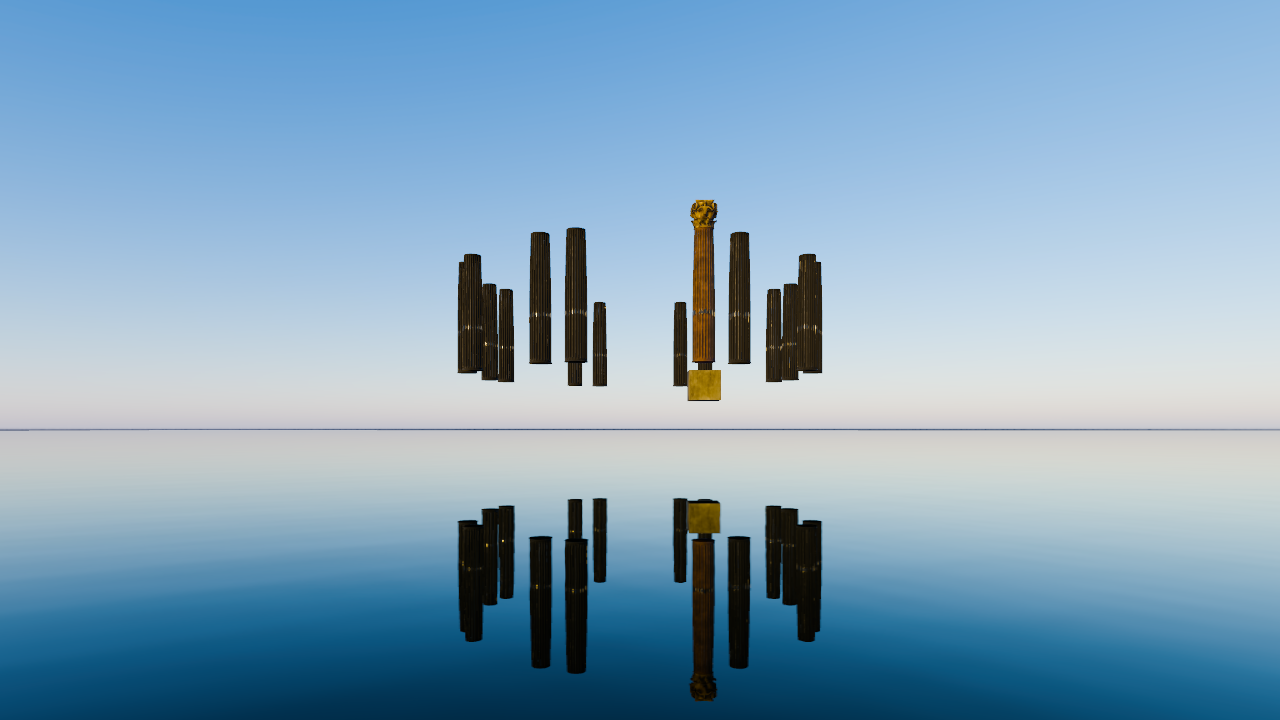
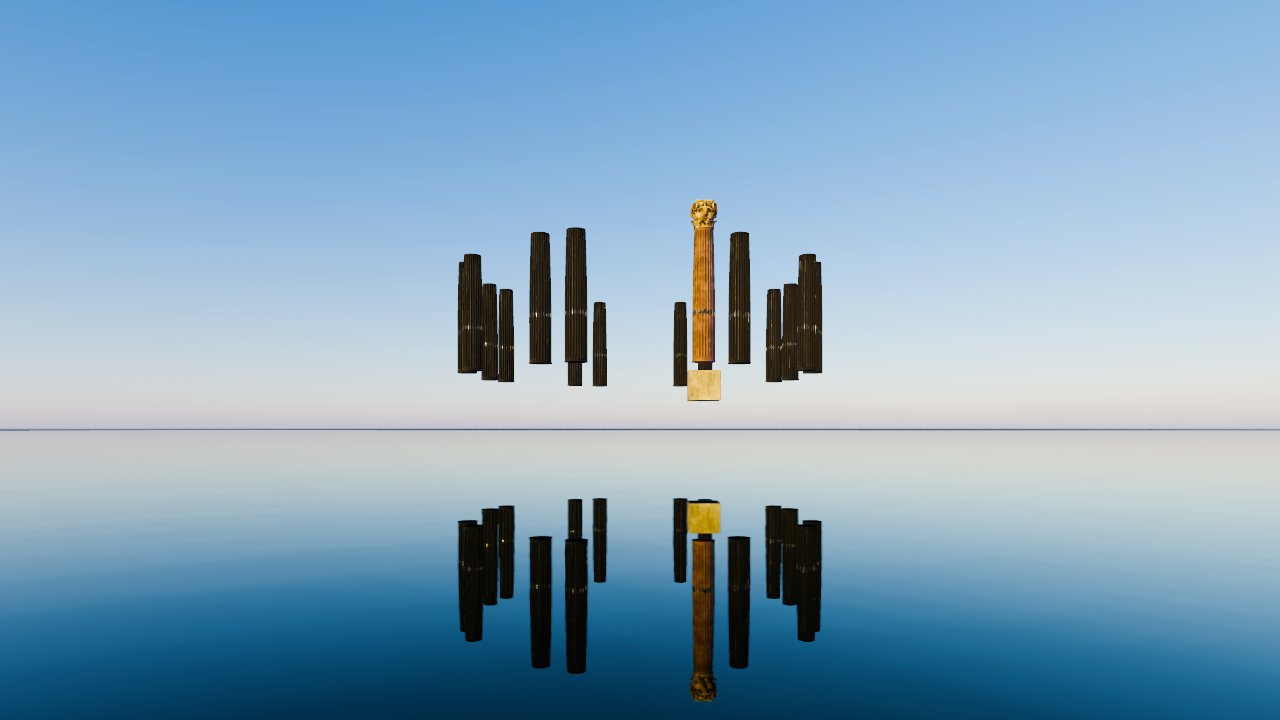
Phase 6 Gate 0 parity: lightmap_scale = pi is the contract; pair sheet against the no-compositor Cycles frame
vs renders/web/gate0_cycles_cam01_nocomp.png (1280x720, cam01, water off, water phase frozen at t=0),
ratios are sRGB-decoded display luminance of the lit column and the sky box:
  lightmap_scale pi (manifest): sunlit 0.922, shaded 0.985, sky 1.011
  lightmap_scale 1 (?lmscale=1): sunlit 0.780, shaded 0.877, sky 1.011
  column pixel bbox [676,212,730,377] in both frames, delta 0 px = 0.0 % of frame height
Against the composited frame at pi: sunlit 0.897, shaded 0.952, sky 1.032 - that gap is the haze,
bloom and vignette the viewer does not implement (Gate 4).

Changed region(s): [[0.5312, 0.6722, 0.5625, 0.9778], [0.5312, 0.275, 0.5625, 0.5806]]

diff --git a/web/README.md b/web/README.md
@@ -23,9 +23,9 @@ three.js tone mapping OFF and a 3D LUT baked from Blender's OCIO.
     npm run dev          # /assets/* is served straight from $PFA_MAIN_ROOT/export/out, never copied
     npm run build        # -> web/dist (2.0 MB: index 780 kB, basis transcoder 576 kB)
 
-URL parameters: `?station=1..6` (also keys 1-6), `?size=WxH`, `?water=0`, `?lut=0`, `?testlut=identity|gamma22`,
-`?test=1` (stand-in slice), `?exposure=`, `?skyrot=`, `?sun=`, `?lmscale=`, `?haze=` (diagnostic constant
-airlight, not the real mist), `?unlit=share|stock|black`, `?t=<seconds>` (freeze the water phase), `?hud=0`.
+URL parameters: `?station=1..6` (keys 1-6 too), `?size=WxH`, `?water=0`, `?lut=0`, `?testlut=identity|gamma22`,
+`?test=1`, `?exposure=`, `?skyrot=`, `?sun=`, `?lmscale=`, `?haze=` (diagnostic constant airlight, not the
+real mist), `?unlit=share|stock|black`, `?t=<seconds>` (freezes the water phase), `?hud=0`.
 
 ## Screenshots (never launch Chrome any other way)
     scripts/chrome_run.sh 300 -- node web/tools/screenshot.mjs --station 1 --size 1280x720 \
@@ -33,7 +33,7 @@ airlight, not the real mist), `?unlit=share|stock|black`, `?t=<seconds>` (freeze
 Check the GPU first (`export/out/bake_queue/status.json` idle, no Blender). `web/tools/gate0.sh` does the
 guard, build, screenshot and pair sheet in one go.
 
-## Manifest fields consumed (schema pfa-phase6-gate0/1)
+## Manifest fields (schema pfa-phase6-gate0/1)
 `glb.path`; `stations.<name>` (location, rotation_euler_xyz, lens_mm, sensor_width_mm, sensor_fit, shift_x/y,
 clip_start/end); `water.viewer_y`; `view.exposure_ev`; `lut` (path, size, shaper.min_ev/max_ev/pivot,
 exposure_applied_by); `sky.camera.hdr`, `sky.glossy.hdr`, `sky.rotation_deg`; `sun` (direction_blender =
